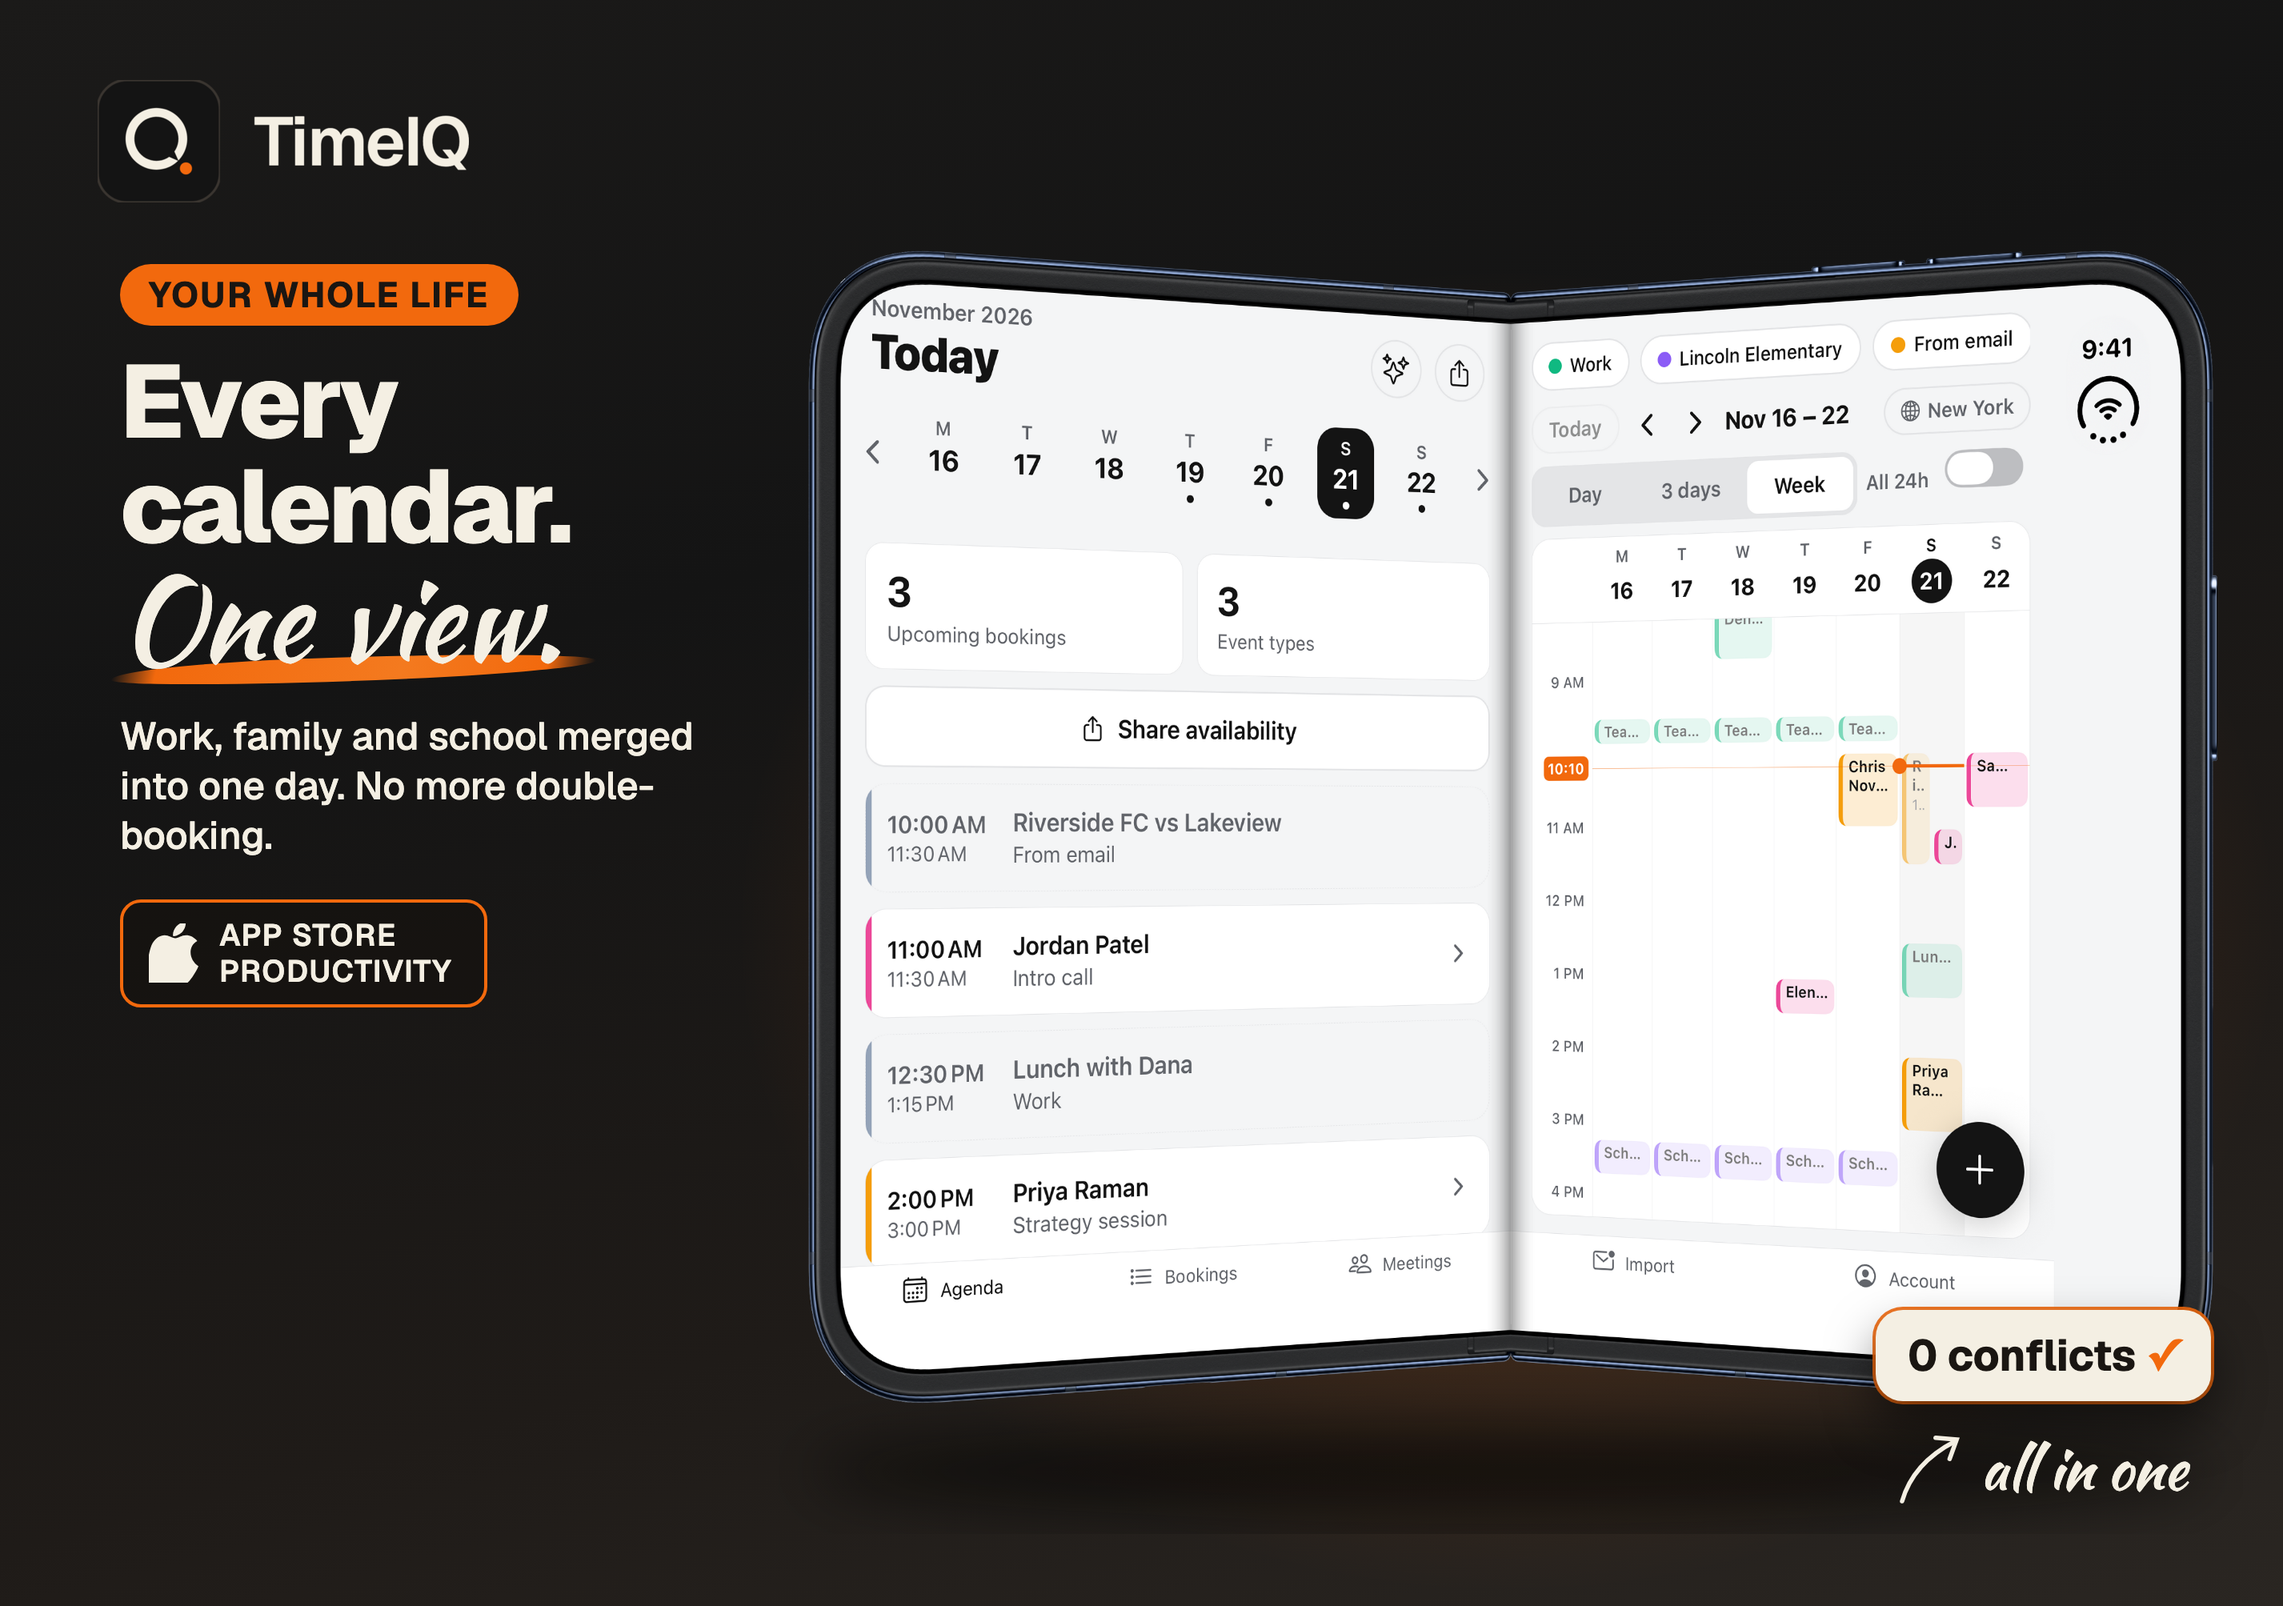
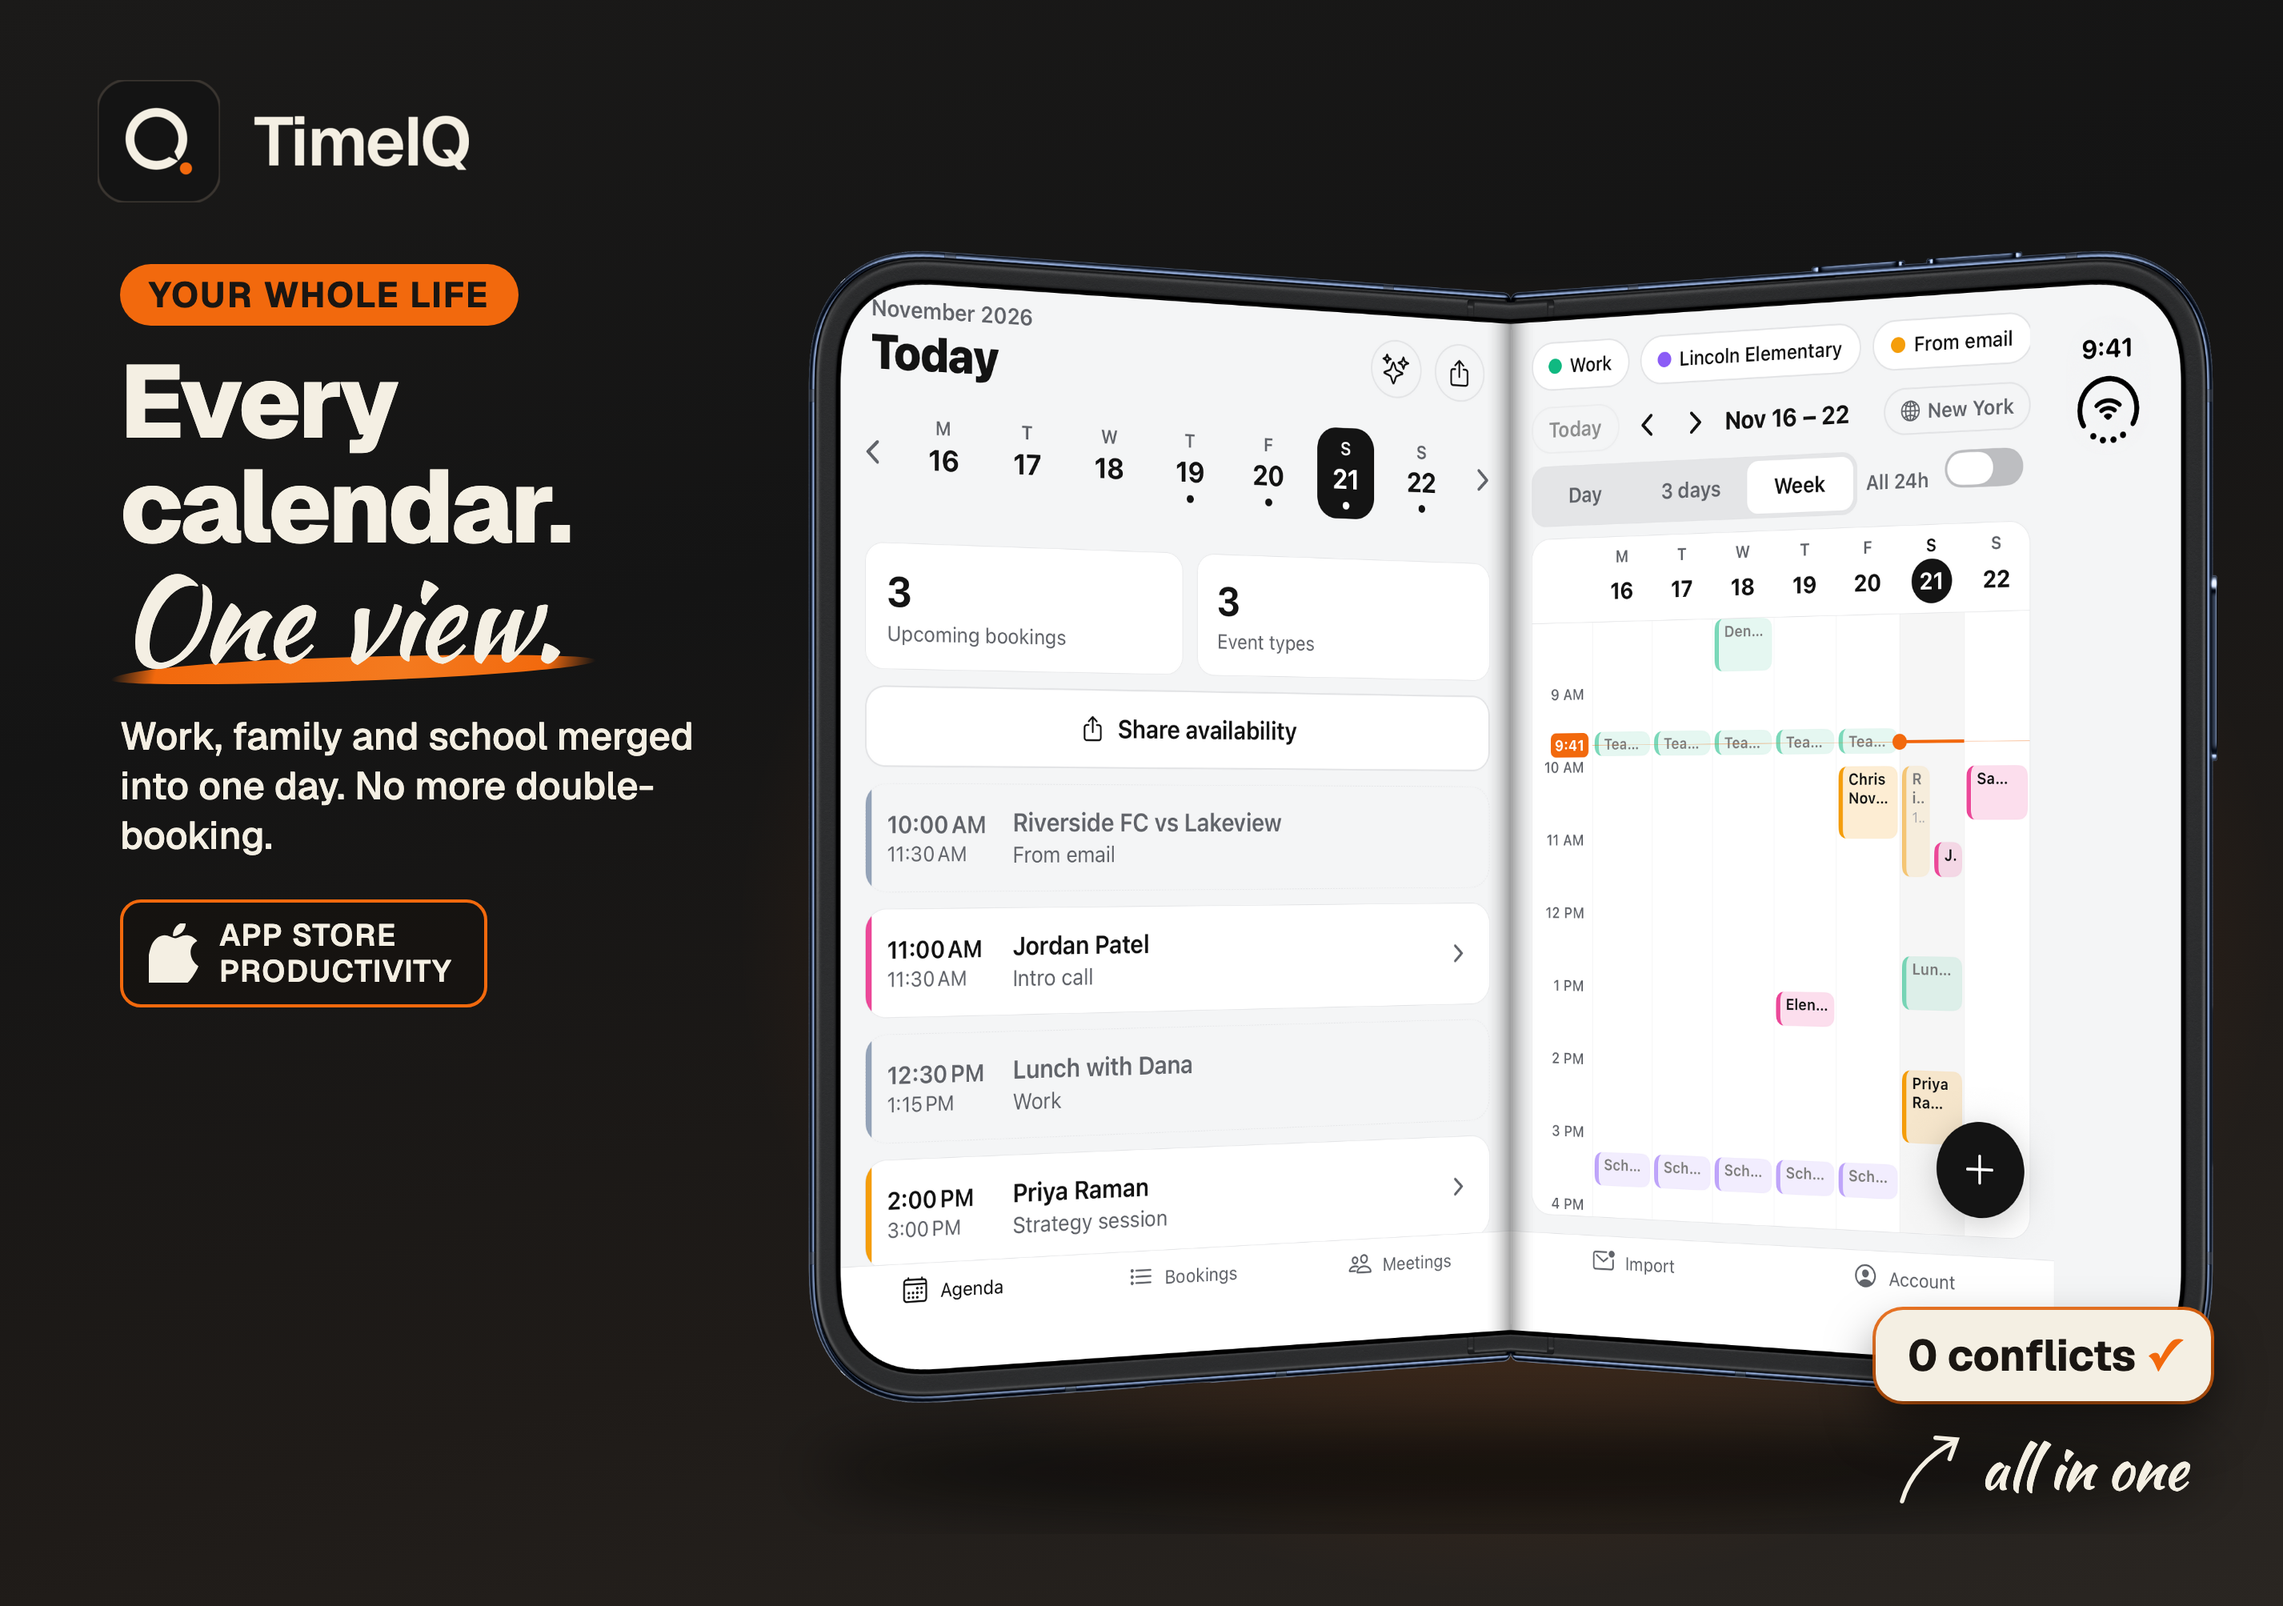
iPhone Duo: laptop-pose chat shot, 9:41 now line, two-pane Account/Meetings/Settings
- Ask TimeIQ captured on the real Duo held like a laptop (open portrait): messages above the fold, starters and composer below; the chat store shot uses the laptop pose again.
- Screenshot mode pins the calendar's now line to 9:41 to match the status bar; Home and Agent recaptured.
- FoldSplit (components/ui.tsx): Account, Meetings and Settings split into two panes at the fold when held like a book; one ScrollView everywhere else.
- Fold panes don't shrink (flexShrink 0) when the other pane's content is wide.

diff --git a/mobile/app/(app)/account.tsx b/mobile/app/(app)/account.tsx
@@ -6,8 +6,8 @@ import * as Notifications from "expo-notifications";
 import { useRouter } from "expo-router";
 import { useState } from "react";
 import * as WebBrowser from "expo-web-browser";
-import { Alert, ScrollView, Share, StyleSheet, Text, View } from "react-native";
-import { Button, Card, Label, Row, readable } from "@/components/ui";
+import { Alert, Share, StyleSheet, Text, View } from "react-native";
+import { Button, Card, FoldSplit, Label, Row, readable } from "@/components/ui";
 import { useApi } from "@/lib/api";
 import { SITE_URL } from "@/lib/config";
 import { pushToken } from "@/lib/push";
@@ -61,7 +61,9 @@ export default function Account() {
   }
 
   return (
-    <ScrollView contentContainerStyle={styles.page}>
+    <FoldSplit
+      contentContainerStyle={styles.page}
+      first={<>
       <View style={styles.profile}>
         {user?.imageUrl ? <Image source={{ uri: user.imageUrl }} style={styles.avatar} /> : <Ionicons name="person-circle" size={64} color={t.muted} />}
         <View style={{ flex: 1 }}>
@@ -103,7 +105,8 @@ export default function Account() {
         <Row icon="calendar-outline" title="Calendars" detail="Connect and sync the calendars that block your times" onPress={() => router.push("/calendars")} />
         <Row icon="settings-outline" title="Settings" detail="Profile, time zone, notifications, booking page, billing, AI assistants" onPress={() => router.push("/settings")} />
       </Card>
-
+      </>}
+      second={<>
       {me?.invoicing_enabled && (
         <Card style={{ paddingVertical: 6 }}>
           <Row icon="stopwatch-outline" title="Time" detail="Your timesheet" onPress={() => router.push("/time")} />
@@ -119,7 +122,8 @@ export default function Account() {
 
       <Button title="Sign out" kind="secondary" busy={busy === "out"} onPress={async () => { setBusy("out"); await leave(); setBusy(null); }} />
       <Button title="Delete account" kind="danger" busy={busy === "delete"} onPress={confirmDelete} />
-    </ScrollView>
+      </>}
+    />
   );
 }
 

diff --git a/mobile/app/(app)/meetings.tsx b/mobile/app/(app)/meetings.tsx
@@ -2,8 +2,8 @@ import { Ionicons } from "@expo/vector-icons";
 import * as Clipboard from "expo-clipboard";
 import { Stack, useFocusEffect, useRouter } from "expo-router";
 import { useCallback, useState } from "react";
-import { ActivityIndicator, Platform, Pressable, RefreshControl, ScrollView, StyleSheet, Text, View } from "react-native";
-import { Button, Card, Notice, readable } from "@/components/ui";
+import { ActivityIndicator, Platform, Pressable, RefreshControl, StyleSheet, Text, View } from "react-native";
+import { Button, Card, FoldSplit, Notice, readable } from "@/components/ui";
 import { useApi } from "@/lib/api";
 import { type MeetingSummary, whenLabel } from "@/lib/group-meetings";
 import { useTheme } from "@/lib/theme";
@@ -57,10 +57,10 @@ export default function Meetings() {
           ),
         }}
       />
-      <ScrollView
+      <FoldSplit
         contentContainerStyle={styles.page}
         refreshControl={<RefreshControl refreshing={refreshing} onRefresh={async () => { setRefreshing(true); await load(); setRefreshing(false); }} />}
-      >
+        first={<>
         <Text style={{ color: t.muted, fontSize: 15, lineHeight: 21 }}>
           Find a time with several people. Everyone gets a link to tick the times that work, and you book the best one.
         </Text>
@@ -85,7 +85,8 @@ export default function Meetings() {
             </Pressable>
           </Card>
         )}
-
+        </>}
+        second={<>
         {error && <Notice tone="error">{error}</Notice>}
         {!meetings && !error && <ActivityIndicator style={{ marginTop: 24 }} />}
         {meetings?.length === 0 && (
@@ -117,7 +118,8 @@ export default function Meetings() {
         })}
 
         {meetings && <Button title="Find a time" icon={<Ionicons name="people-outline" size={19} color={t.primaryText} />} onPress={() => router.push("/new-meeting")} />}
-      </ScrollView>
+        </>}
+      />
     </>
   );
 }

diff --git a/mobile/app/settings.tsx b/mobile/app/settings.tsx
@@ -6,8 +6,8 @@ import { Image } from "expo-image";
 import { useFocusEffect, useRouter } from "expo-router";
 import * as Sharing from "expo-sharing";
 import { useCallback, useState } from "react";
-import { ActivityIndicator, Alert, Linking, Platform, Pressable, ScrollView, StyleSheet, Text, View } from "react-native";
-import { Button, Card, Input, Label, readable, Row, ToggleRow } from "@/components/ui";
+import { ActivityIndicator, Alert, Linking, Platform, Pressable, StyleSheet, Text, View } from "react-native";
+import { Button, Card, FoldSplit, Input, Label, readable, Row, ToggleRow } from "@/components/ui";
 import { ZonePicker } from "@/components/zone-picker";
 import { type BillingStatus, type Me, useApi } from "@/lib/api";
 import { API_URL, SITE_URL } from "@/lib/config";
@@ -135,7 +135,10 @@ export default function Settings() {
   const scene = me.booking_scene ?? "soft-watches";
 
   return (
-    <ScrollView contentContainerStyle={styles.page} keyboardShouldPersistTaps="handled">
+    <FoldSplit
+      contentContainerStyle={styles.page}
+      keyboardShouldPersistTaps="handled"
+      first={<>
       <Label>Profile</Label>
       <Card style={{ gap: 14 }}>
         <View>
@@ -205,7 +208,8 @@ export default function Settings() {
           );
         })}
       </View>
-
+      </>}
+      second={<>
       <Label>Calendar subscription</Label>
       <Card style={{ gap: 12 }}>
         <Text style={{ color: t.muted, fontSize: 14, lineHeight: 20 }}>
@@ -281,7 +285,8 @@ export default function Settings() {
           if (zone !== me.timezone) await patch({ timezone: zone }, "Time zone not changed");
         }}
       />
-    </ScrollView>
+      </>}
+    />
   );
 }
 

diff --git a/mobile/components/ui.tsx b/mobile/components/ui.tsx
@@ -1,5 +1,5 @@
 import { Ionicons } from "@expo/vector-icons";
-import { ActivityIndicator, Pressable, StyleSheet, Switch, Text, TextInput, View, type ViewStyle, useWindowDimensions } from "react-native";
+import { ActivityIndicator, Pressable, ScrollView, type ScrollViewProps, StyleSheet, Switch, Text, TextInput, View, type ViewStyle, useWindowDimensions } from "react-native";
 import { useSafeAreaInsets } from "react-native-safe-area-context";
 import { useTheme } from "@/lib/theme";
 
@@ -199,6 +199,30 @@ export function useFold(): { x: number; below?: undefined } | { below: number; x
   const [long, short] = [Math.round(Math.max(width, height)), Math.round(Math.min(width, height))];
   if (long !== 951 || short !== 669) return null;
   return width > height ? { x: width / 2 - insets.left } : { below: height / 2 };
+}
+
+/**
+ * A scrolling page whose content splits into two panes at an unfolded Duo's fold (held like a book).
+ * Everywhere else it is one ScrollView with `first` then `second`, exactly as before.
+ */
+export function FoldSplit({ first, second, ...props }: ScrollViewProps & { first: React.ReactNode; second: React.ReactNode }) {
+  const t = useTheme();
+  const fold = useFold();
+  if (!fold?.x)
+    return (
+      <ScrollView {...props}>
+        {first}
+        {second}
+      </ScrollView>
+    );
+  return (
+    <View style={{ flex: 1, flexDirection: "row" }}>
+      <ScrollView {...props} style={{ width: fold.x, flexGrow: 0, flexShrink: 0, borderRightWidth: StyleSheet.hairlineWidth, borderColor: t.border }}>
+        {first}
+      </ScrollView>
+      <ScrollView {...props}>{second}</ScrollView>
+    </View>
+  );
 }
 
 const inputStyles = StyleSheet.create({

diff --git a/mobile/components/week-calendar.tsx b/mobile/components/week-calendar.tsx
@@ -15,6 +15,7 @@ import {
 import { Segmented, useWide } from "@/components/ui";
 import { ZonePicker, zoneLabel } from "@/components/zone-picker";
 import { ApiError, type Booking, type CachedEvent, useApi } from "@/lib/api";
+import { SCREENSHOT_MODE } from "@/lib/config";
 import { colorFor, useTheme } from "@/lib/theme";
 import { dayKey, fmt, timeOf, wallMinutes, wallParts, zoneDayStart, zoneTime } from "@/lib/time";
 
@@ -249,8 +250,10 @@ export function WeekCalendar({
     setOwnDate(d);
     onDateChange?.(d);
   };
-  const [now, setNow] = useState(() => new Date());
+  // Store screenshots pin the now line to the status bar's 9:41.
+  const [now, setNow] = useState(() => (SCREENSHOT_MODE ? zoneTime(new Date(), viewZone, 0, 9 * 60 + 41) : new Date()));
   useEffect(() => {
+    if (SCREENSHOT_MODE) return;
     const timer = setInterval(() => setNow(new Date()), 60_000);
     return () => clearInterval(timer);
   }, []);

diff --git a/mobile/app/assistant.tsx b/mobile/app/assistant.tsx
@@ -203,7 +203,7 @@ export default function Assistant() {
       <View style={fold?.x ? styles.split : { flex: 1 }}>
       <ScrollView
         ref={scroll}
-        style={fold?.x ? { width: fold.x, flexGrow: 0, borderRightWidth: StyleSheet.hairlineWidth, borderColor: t.border } : undefined}
+        style={fold?.x ? { width: fold.x, flexGrow: 0, flexShrink: 0, borderRightWidth: StyleSheet.hairlineWidth, borderColor: t.border } : undefined}
         contentContainerStyle={styles.list}
         keyboardShouldPersistTaps="handled"
         onContentSizeChange={() => scroll.current?.scrollToEnd({ animated: true })}

diff --git a/mobile/app/(app)/bookings.tsx b/mobile/app/(app)/bookings.tsx
@@ -95,7 +95,7 @@ export default function Bookings() {
       />
       {wide ? (
         <View style={styles.split}>
-          <View style={[styles.side, { borderColor: t.border }, fold?.x ? { width: fold.x } : null]}>{list()}</View>
+          <View style={[styles.side, { borderColor: t.border }, fold?.x ? { width: fold.x, flexShrink: 0 } : null]}>{list()}</View>
           <View style={{ flex: 1 }}>
             {selectedId ? <BookingDetail key={selectedId} id={selectedId} onDone={load} /> : null}
           </View>

diff --git a/mobile/app/(app)/index.tsx b/mobile/app/(app)/index.tsx
@@ -322,7 +322,7 @@ export default function Agenda() {
     <SafeAreaView edges={["top"]} style={{ flex: 1, backgroundColor: t.bg }}>
       {wide ? (
         <View style={styles.split}>
-          <View style={[styles.side, { borderColor: t.border }, fold?.x ? { width: fold.x } : null]}>
+          <View style={[styles.side, { borderColor: t.border }, fold?.x ? { width: fold.x, flexShrink: 0 } : null]}>
             {header}
             {banner}
             {list}

diff --git a/mobile/store-art/duo/duo-composite.py b/mobile/store-art/duo/duo-composite.py
@@ -131,7 +131,8 @@ if __name__ == "__main__":
     jobs = {f"land-{c}": (land, f"{c}-land") for c in ["01_agenda", "02_assistant", "03_availability", "04_calendars", "05_event_types", "06_import"]}
     # The app splits its panes at the fold (useFold), so these read cleanly bent like a book.
     jobs.update({f"book-{c}": (book, f"{c}-land") for c in ["01_agenda", "02_assistant", "03_availability"]})
-    # laptop() needs an inner-portrait capture (DeviceHub's open-portrait posture): jobs["laptop-02_assistant"] = (laptop, "02_assistant-port")
+    # Ask TimeIQ held like a laptop: messages above the fold, starters and composer below it.
+    jobs["laptop-02_assistant"] = (laptop, "02_assistant-port")
     for name, (fn, cap) in jobs.items():
         fn(cap).save(os.path.join(OUT, f"{name}.png"))
         print("framed", name)
